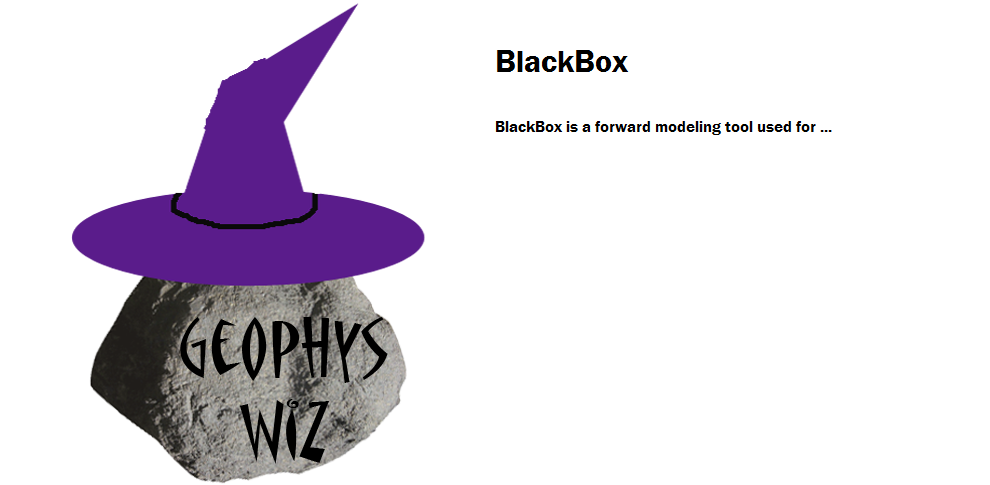
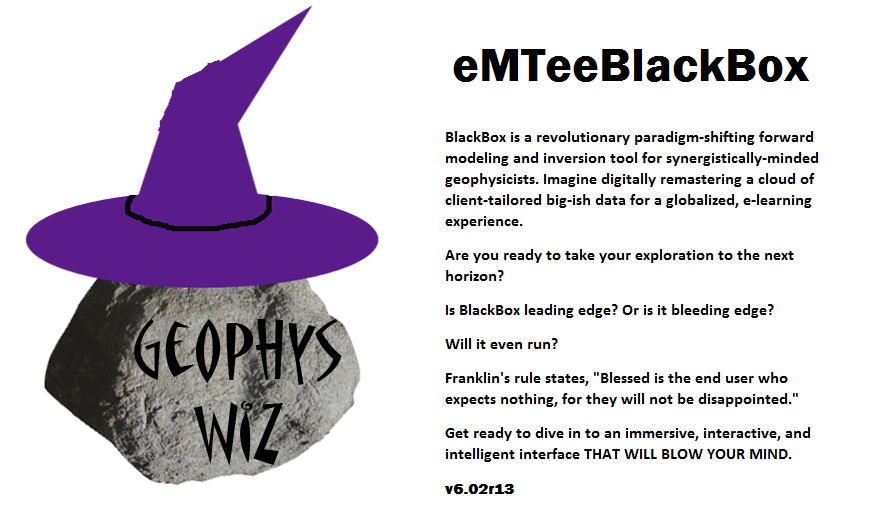
Updated finishing touches

diff --git a/hackathon/src/application/MTApplication.java b/hackathon/src/application/MTApplication.java
@@ -98,20 +98,47 @@ public class MTApplication extends BorderPane {
 
 	private Node createGravityModel() {
 
-		 final NumberAxis xAxis = new NumberAxis();
-		 final NumberAxis yAxis = new NumberAxis();
-		 xAxis.setLabel("Distance (m)"); 
-		 yAxis.setLabel("GAL (ms^-2)"); 
-		LineChart<Number,Number> chart = new LineChart<Number,Number>(xAxis,yAxis);
+		 final NumberAxis xAxis1 = new NumberAxis();
+		 final NumberAxis yAxis1 = new NumberAxis();
+		 xAxis1.setLabel("Distance (m)"); 
+		 yAxis1.setLabel("GAL (ms^-2)"); 
+		 final NumberAxis xAxis2 = new NumberAxis();
+		 final NumberAxis yAxis2 = new NumberAxis();
+		 xAxis2.setLabel("Distance (m)"); 
+		 yAxis2.setLabel("GAL (ms^-2)"); 
+		 final NumberAxis xAxis3 = new NumberAxis();
+		 final NumberAxis yAxis3 = new NumberAxis();
+		 xAxis3.setLabel("Distance (m)"); 
+		 yAxis3.setLabel("GAL (ms^-2)"); 
+		 final NumberAxis xAxis4 = new NumberAxis();
+		 final NumberAxis yAxis4 = new NumberAxis();
+		 xAxis4.setLabel("Distance (m)"); 
+		 yAxis4.setLabel("GAL (ms^-2)"); 
+		LineChart<Number,Number> chart1 = new LineChart<Number,Number>(xAxis1,yAxis1);
+		LineChart<Number,Number> chart2 = new LineChart<Number,Number>(xAxis2,yAxis2);
+		LineChart<Number,Number> chart3 = new LineChart<Number,Number>(xAxis3,yAxis3);
+		LineChart<Number,Number> chart4 = new LineChart<Number,Number>(xAxis4,yAxis4);
+		XYChart.Series seriesRaw = new XYChart.Series();
+		XYChart.Series seriesInv1 = new XYChart.Series();
+		XYChart.Series seriesInv2 = new XYChart.Series();
+		XYChart.Series seriesInv3 = new XYChart.Series();
 		
-		XYChart.Series series = new XYChart.Series();
-		
+		seriesRaw.setName("Raw");
+		seriesInv1.setName("Inv IRLSQ");
+		seriesInv2.setName("Inv LSQ");
+		seriesInv3.setName("Inv WLSQ");
 		for(ArrayList<Double> p : 	invGrav()) {
-			series.getData().add(new XYChart.Data<Number, Number>(p.get(1), p.get(0)));
+			seriesRaw.getData().add(new XYChart.Data<Number, Number>(p.get(0), new Double(p.get(1))));
+			seriesInv1.getData().add(new XYChart.Data<Number, Number>(p.get(0), new Double(p.get(2))));
+			seriesInv2.getData().add(new XYChart.Data<Number, Number>(p.get(0), new Double(p.get(3))));
+			seriesInv3.getData().add(new XYChart.Data<Number, Number>(p.get(0), new Double(p.get(4))));
 		}
-		chart.getData().add(series);
-		
-		return chart;
+		chart1.getData().add(seriesRaw);
+		chart2.getData().add(seriesInv1);
+		chart3.getData().add(seriesInv2);
+		chart4.getData().add(seriesInv3);
+		VBox b = new VBox(chart1, chart2, chart3,chart4);
+		return b;
 	}
 
 	private Node createWelcomePane() {
@@ -206,6 +233,12 @@ public class MTApplication extends BorderPane {
 	   	chartRyx.getData().remove(seriesryx);
 		 chartPhasexy.getData().remove(seriespxy);
 		 chartPhaseyx.getData().remove(seriespyx);
+		 
+		 seriesrxy.setName("Apparent Resistivity XY Data");
+		 seriesryx.setName("Phase XY Data");
+		 seriespxy.setName("Apparent Resistivity YX Data");
+		 seriespyx.setName("Phase YX Data");
+		 
 	   	ArrayList<Double> freqs = getColumn(data,0);
 	   	ArrayList<Double> rhoxy = getColumn(data,1);
 	   	ArrayList<Double> phasexy = getColumn(data,2);
@@ -272,11 +305,18 @@ public class MTApplication extends BorderPane {
 		inv.soln();
 		double [] gu = inv.getData().getArray();
 		double [] distances = inv.getPosition().getArray();
+		double [] inversionDIRLS = inv.getDIRLS().getArray();
+		double [] inversionLSQ = inv.getLSQ().getArray();
+		double [] inversionWLSQ = inv.getWLSQ().getArray();
 		ArrayList<ArrayList<Double>> values = new ArrayList<ArrayList<Double>>();
 		for(int i = 0 ; i < gu.length ; i++) {
 			ArrayList<Double> l = new ArrayList<Double>();
-			l.add(gu[i]);
+		
 			l.add(distances[i]);
+			l.add(gu[i]);
+			l.add(inversionDIRLS[i]);
+			l.add(inversionLSQ[i]);
+			l.add(inversionWLSQ[i]);
 			values.add(l);
 		}
 		return values;
@@ -289,6 +329,10 @@ public class MTApplication extends BorderPane {
 	   	chartRyx.getData().remove(seriesryxfwd);
 		 chartPhasexy.getData().remove(seriespxyfwd);
 		 chartPhaseyx.getData().remove(seriespyxfwd);
+		 seriesrxyfwd.setName("Apparent Resistivity XY Synthetic");
+		 seriespxyfwd.setName("Phase XY Synthetic");
+		 seriesryxfwd.setName("Apparent Resistivity YX Synthetic");
+		 seriespyxfwd.setName("Phase YX Synthetic");
 		}
 		 seriesrxyfwd.getData().removeAll(seriesrxyfwd.getData());
 		 seriesryxfwd.getData().removeAll(seriesryxfwd.getData());

diff --git a/hackathon/src/application/Main.java b/hackathon/src/application/Main.java
@@ -32,6 +32,7 @@ public class Main extends Application {
 			scene.getStylesheets().add(getClass().getResource("application.css").toExternalForm());
 			primaryStage.setScene(scene);
 			primaryStage.show();
+			primaryStage.setTitle("eMTeeBlackBox Developed by " + " Josh Poirier" +" Colton Kohnke" + " Katerina Gonzales" + " Elijah Thomas" + " Andrew Pethick 2014");
 		} catch(Exception e) {
 			e.printStackTrace();
 		}

diff --git a/hackathon/src/application/LayerEntry.java b/hackathon/src/application/LayerEntry.java
@@ -84,7 +84,7 @@ public class LayerEntry extends BorderPane{
 		resB.getChildren().add(sr);
 		thickB.getChildren().add(l.t);
 		thickB.getChildren().add(st);
-		st.setValue(100);
+		
 		HBox b = new HBox(new Label("Res"),resB,new Label("Thick"),thickB,remove);
 		VBox v = new VBox();
 		v.getChildren().add(b);
